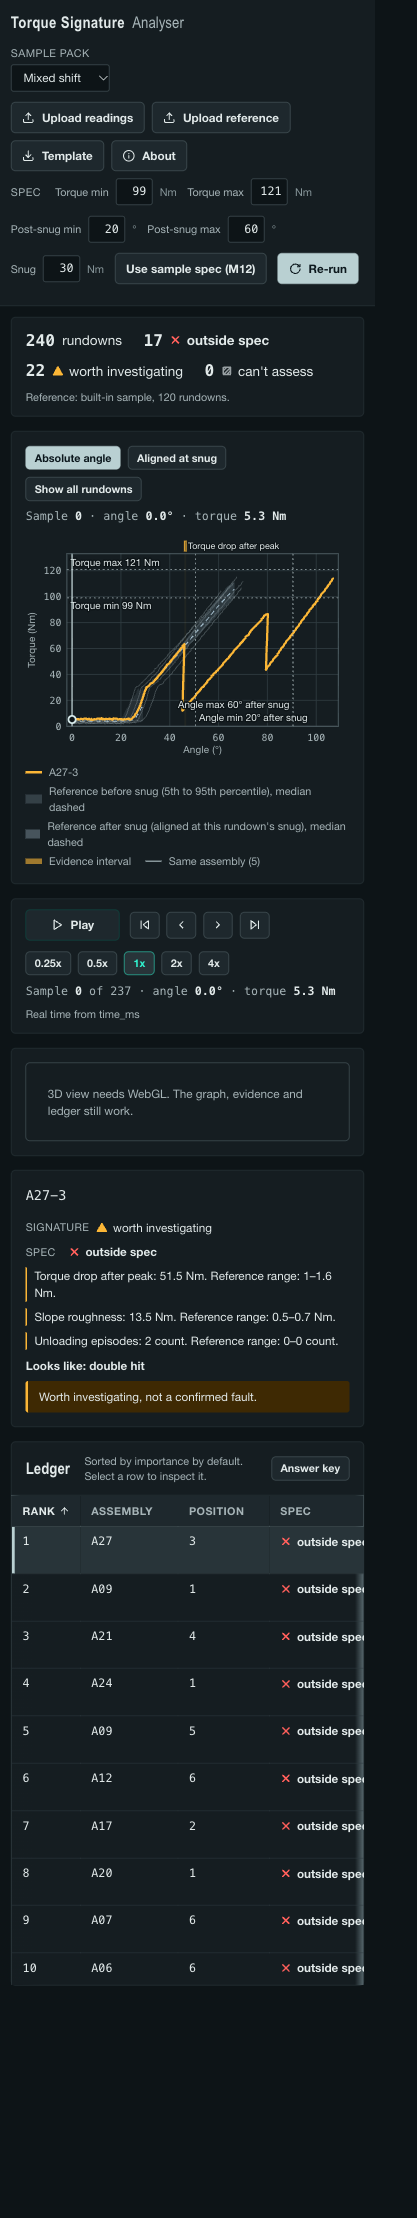
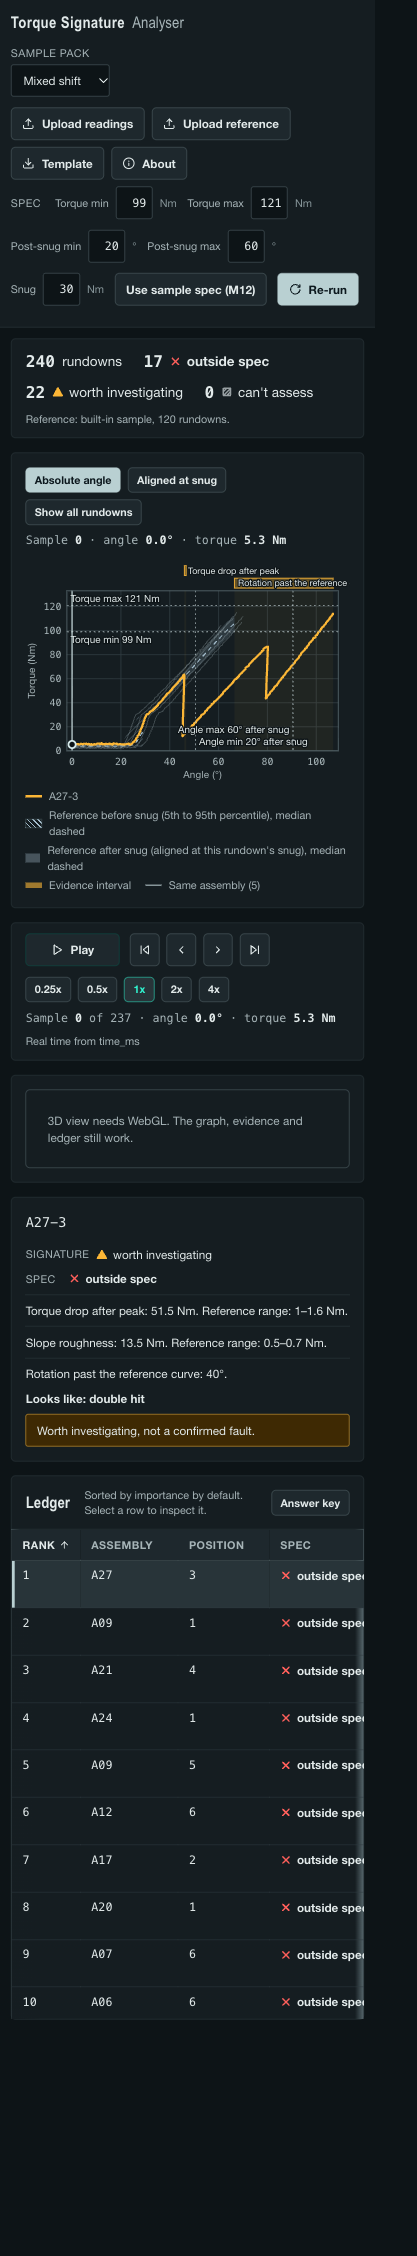
fix(torque): About limits and diagram outcomes, past-reference evidence copy, retaken screenshots

diff --git a/apps/torque-signature-analyser/web/src/components/About.jsx b/apps/torque-signature-analyser/web/src/components/About.jsx
@@ -21,18 +21,19 @@ export default function About({ open, onClose }) {
         </div>
 
         <div className="about-diagram">
-          <svg viewBox="0 0 760 308" width="760" height="308" role="img" aria-labelledby="hiw-title hiw-desc" dangerouslySetInnerHTML={{ __html: diagram }} />
+          <svg viewBox="0 0 760 348" width="760" height="348" role="img" aria-labelledby="hiw-title hiw-desc" dangerouslySetInnerHTML={{ __html: diagram }} />
         </div>
 
         <ol className="about-steps">
           <li><b>Features.</b> Each rundown becomes a short list: final and peak torque, snug angle, post-snug angle, elastic slope, torque drops, and how far the curve strays from the reference median.</li>
-          <li><b>Reference.</b> Normal rundowns set the expected band, the 5th to 95th percentile at each angle after snug. Without a reference file, the upload is compared with itself.</li>
-          <li><b>Signature result.</b> A rundown is worth investigating when one feature sits far outside the reference spread, the whole curve strays far from the median, or the Isolation Forest finds the mix of features unusual.</li>
-          <li><b>Spec result.</b> Torque and post-snug angle are checked against the limits you enter. The reference plays no part.</li>
+          <li><b>Reference.</b> The reference rundowns set the expected band, the 5th to 95th percentile at each angle after snug. The tool assumes they are good rundowns. Without a reference file, the upload is compared with itself, so a shift across the whole batch can hide.</li>
+          <li><b>Signature result.</b> A rundown is worth investigating when one feature sits far outside the reference spread, the whole curve strays far from the median, the rotation runs past the reference curve, or the Isolation Forest finds the mix of features unusual. Typical means statistically similar to the reference. It does not approve the fastening. Can't assess means the reference or the trace gave too little to compare.</li>
+          <li><b>Spec result.</b> Torque and post-snug angle are checked against the limits you enter. The reference plays no part. A rundown is within only when every limit you entered was checked and passed. Partly checked means a limit could not be tested. Not supplied means you entered no limits.</li>
         </ol>
 
         <h3>Limits</h3>
         <ul className="about-limits">
+          <li>The tool reads continuous-drive tightening traces only.</li>
           <li>All sample data is synthetic.</li>
           <li>The detector was checked on 3 held-out synthetic seeds. Each had only 3 to 5 abnormal rundowns that were still in spec, so the recall figures rest on very few cases.</li>
           <li>A flag means worth checking. It does not confirm a fault.</li>
@@ -41,7 +42,7 @@ export default function About({ open, onClose }) {
         </ul>
 
         <h3>Keys</h3>
-        <p className="about-keys">Left and Right step one sample, with Shift ten. In the 3D view, Q and E rotate, plus and minus zoom, 0 resets.</p>
+        <p className="about-keys">Left and Right step one sample, with Shift ten. In the 3D view, Q and E rotate, W and S tilt, plus and minus zoom, 0 resets.</p>
       </div>
     </dialog>
   );

diff --git a/apps/torque-signature-analyser/web/tests/format.test.js b/apps/torque-signature-analyser/web/tests/format.test.js
@@ -25,3 +25,8 @@ test('cant-assess text uses the reason from the API', () => {
   assert.equal(cantAssessText({ cant_assess_reason: 'Reference too small to compare.' }), 'Reference too small to compare.');
   assert.equal(cantAssessText({}), 'Not enough of the curve to compare.');
 });
+
+test('past-reference evidence has no reference range', () => {
+  assert.equal(evidenceLine({ feature: 'rotation_past_reference', label: 'Rotation past the reference curve', value: 40, unit: '°', ref_lo: 0, ref_hi: 0 }),
+    'Rotation past the reference curve: 40°.');
+});

diff --git a/apps/torque-signature-analyser/web/src/format.js b/apps/torque-signature-analyser/web/src/format.js
@@ -4,6 +4,7 @@ export const withUnit = (v, unit) => (unit === '°' ? `${fmt(v)}°` : `${fmt(v)}
 
 /** "Label: value unit. Reference range: lo–hi unit." (no space before °) */
 export function evidenceLine(ev) {
+  if (ev.feature === 'rotation_past_reference') return `${ev.label}: ${withUnit(ev.value, ev.unit)}.`;
   const range = `${fmt(ev.ref_lo)}–${withUnit(ev.ref_hi, ev.unit)}`;
   return `${ev.label}: ${withUnit(ev.value, ev.unit)}. Reference range: ${range}.`;
 }
